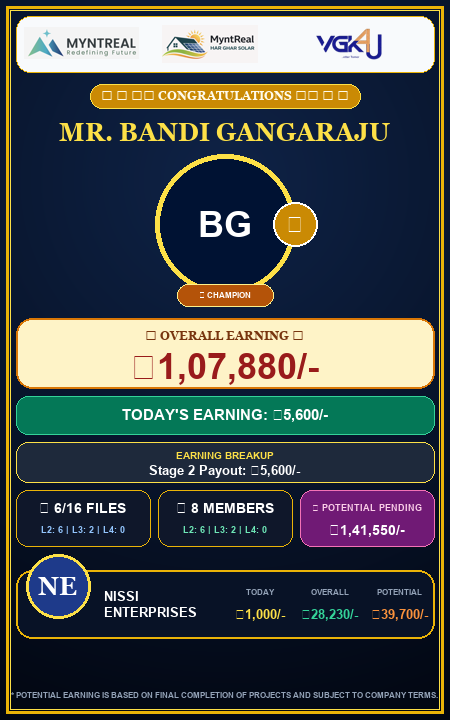
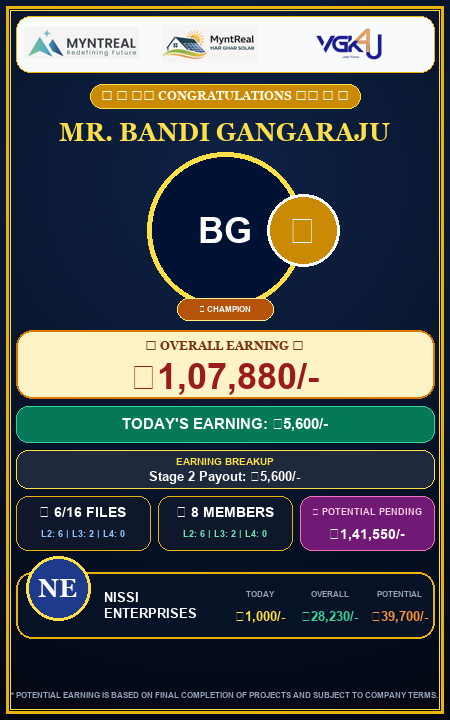
feat(poster): enlarge member photo circle to 156px and 2X Champion Trophy badge to 72px positioned further right

Changed region(s): [[0.0311, 0.2139, 0.9644, 0.8861], [0.4356, 0.275, 0.56, 0.3361]]

diff --git a/MyntReal_Latest/frontend/staff_vgk_members.html b/MyntReal_Latest/frontend/staff_vgk_members.html
@@ -7338,15 +7338,15 @@ function _renderCommDetailTable(partnerId) {
               <div id="prevSubtitle" style="font-size:26px;font-weight:950;background:linear-gradient(180deg,#ffffff 0%,#fef08a 45%,#eab308 100%);-webkit-background-clip:text;-webkit-text-fill-color:transparent;filter:drop-shadow(0 2px 8px rgba(234,179,8,0.65));font-family:Georgia,serif;text-transform:uppercase;letter-spacing:0.8px;line-height:1.2">MR. BANDI GANGARAJU</div>
             </div>
 
-            <!-- 4. Member Profile Photo inside Golden Wreath Ring with Right-Aligned Champion Trophy -->
-            <div style="position:relative;width:140px;height:140px;margin-bottom:14px">
-              <div style="width:140px;height:140px;border-radius:50%;border:4.5px solid #fde047;overflow:hidden;background:#001233;box-shadow:0 0 35px rgba(234,179,8,0.8);display:flex;align-items:center;justify-content:center">
+            <!-- 4. Member Profile Photo inside Golden Wreath Ring with 2X Right-Aligned Champion Trophy -->
+            <div style="position:relative;width:156px;height:156px;margin-bottom:12px">
+              <div style="width:156px;height:156px;border-radius:50%;border:5px solid #fde047;overflow:hidden;background:#001233;box-shadow:0 0 40px rgba(234,179,8,0.85);display:flex;align-items:center;justify-content:center">
                 <img id="prevImg" src="" crossorigin="anonymous" style="width:100%;height:100%;object-fit:cover;object-position:center 20%;display:none">
-                <div id="prevAvatar" style="width:100%;height:100%;display:flex;align-items:center;justify-content:center;background:linear-gradient(135deg,#1d4ed8,#7c3aed);color:white;font-size:44px;font-weight:900">BG</div>
+                <div id="prevAvatar" style="width:100%;height:100%;display:flex;align-items:center;justify-content:center;background:linear-gradient(135deg,#1d4ed8,#7c3aed);color:white;font-size:50px;font-weight:900">BG</div>
               </div>
 
-              <!-- 3D Champion Trophy Badge Overlay on EXACT RIGHT SIDE (3 o'clock position) of Photo Circle -->
-              <div style="position:absolute;top:50%;right:-18px;transform:translateY(-50%);background:radial-gradient(circle,#fffbeb,#fde047 30%,#b45309 100%);border:2px solid #ffffff;border-radius:50%;width:44px;height:44px;display:flex;align-items:center;justify-content:center;box-shadow:0 4px 16px rgba(0,0,0,0.75), 0 0 20px rgba(251,191,36,0.85);font-size:23px;z-index:10">🏆</div>
+              <!-- 2X 3D Champion Trophy Badge Overlay (72px x 72px) Moved Further Right at 3 o'clock position -->
+              <div style="position:absolute;top:50%;right:-34px;transform:translateY(-50%);background:radial-gradient(circle,#fffbeb,#fde047 35%,#b45309 100%);border:3px solid #ffffff;border-radius:50%;width:72px;height:72px;display:flex;align-items:center;justify-content:center;box-shadow:0 6px 20px rgba(0,0,0,0.8), 0 0 25px rgba(251,191,36,0.9);font-size:40px;z-index:10">🏆</div>
 
               <!-- Champion Pill at Bottom -->
               <div style="position:absolute;bottom:-7px;left:50%;transform:translateX(-50%);background:linear-gradient(135deg,#b45309,#f59e0b,#b45309);border:1px solid #fef08a;color:#ffffff;font-size:9.5px;font-weight:900;padding:2.5px 16px;border-radius:12px;letter-spacing:1.2px;white-space:nowrap;box-shadow:0 3px 10px rgba(0,0,0,0.6)">🏆 CHAMPION</div>
